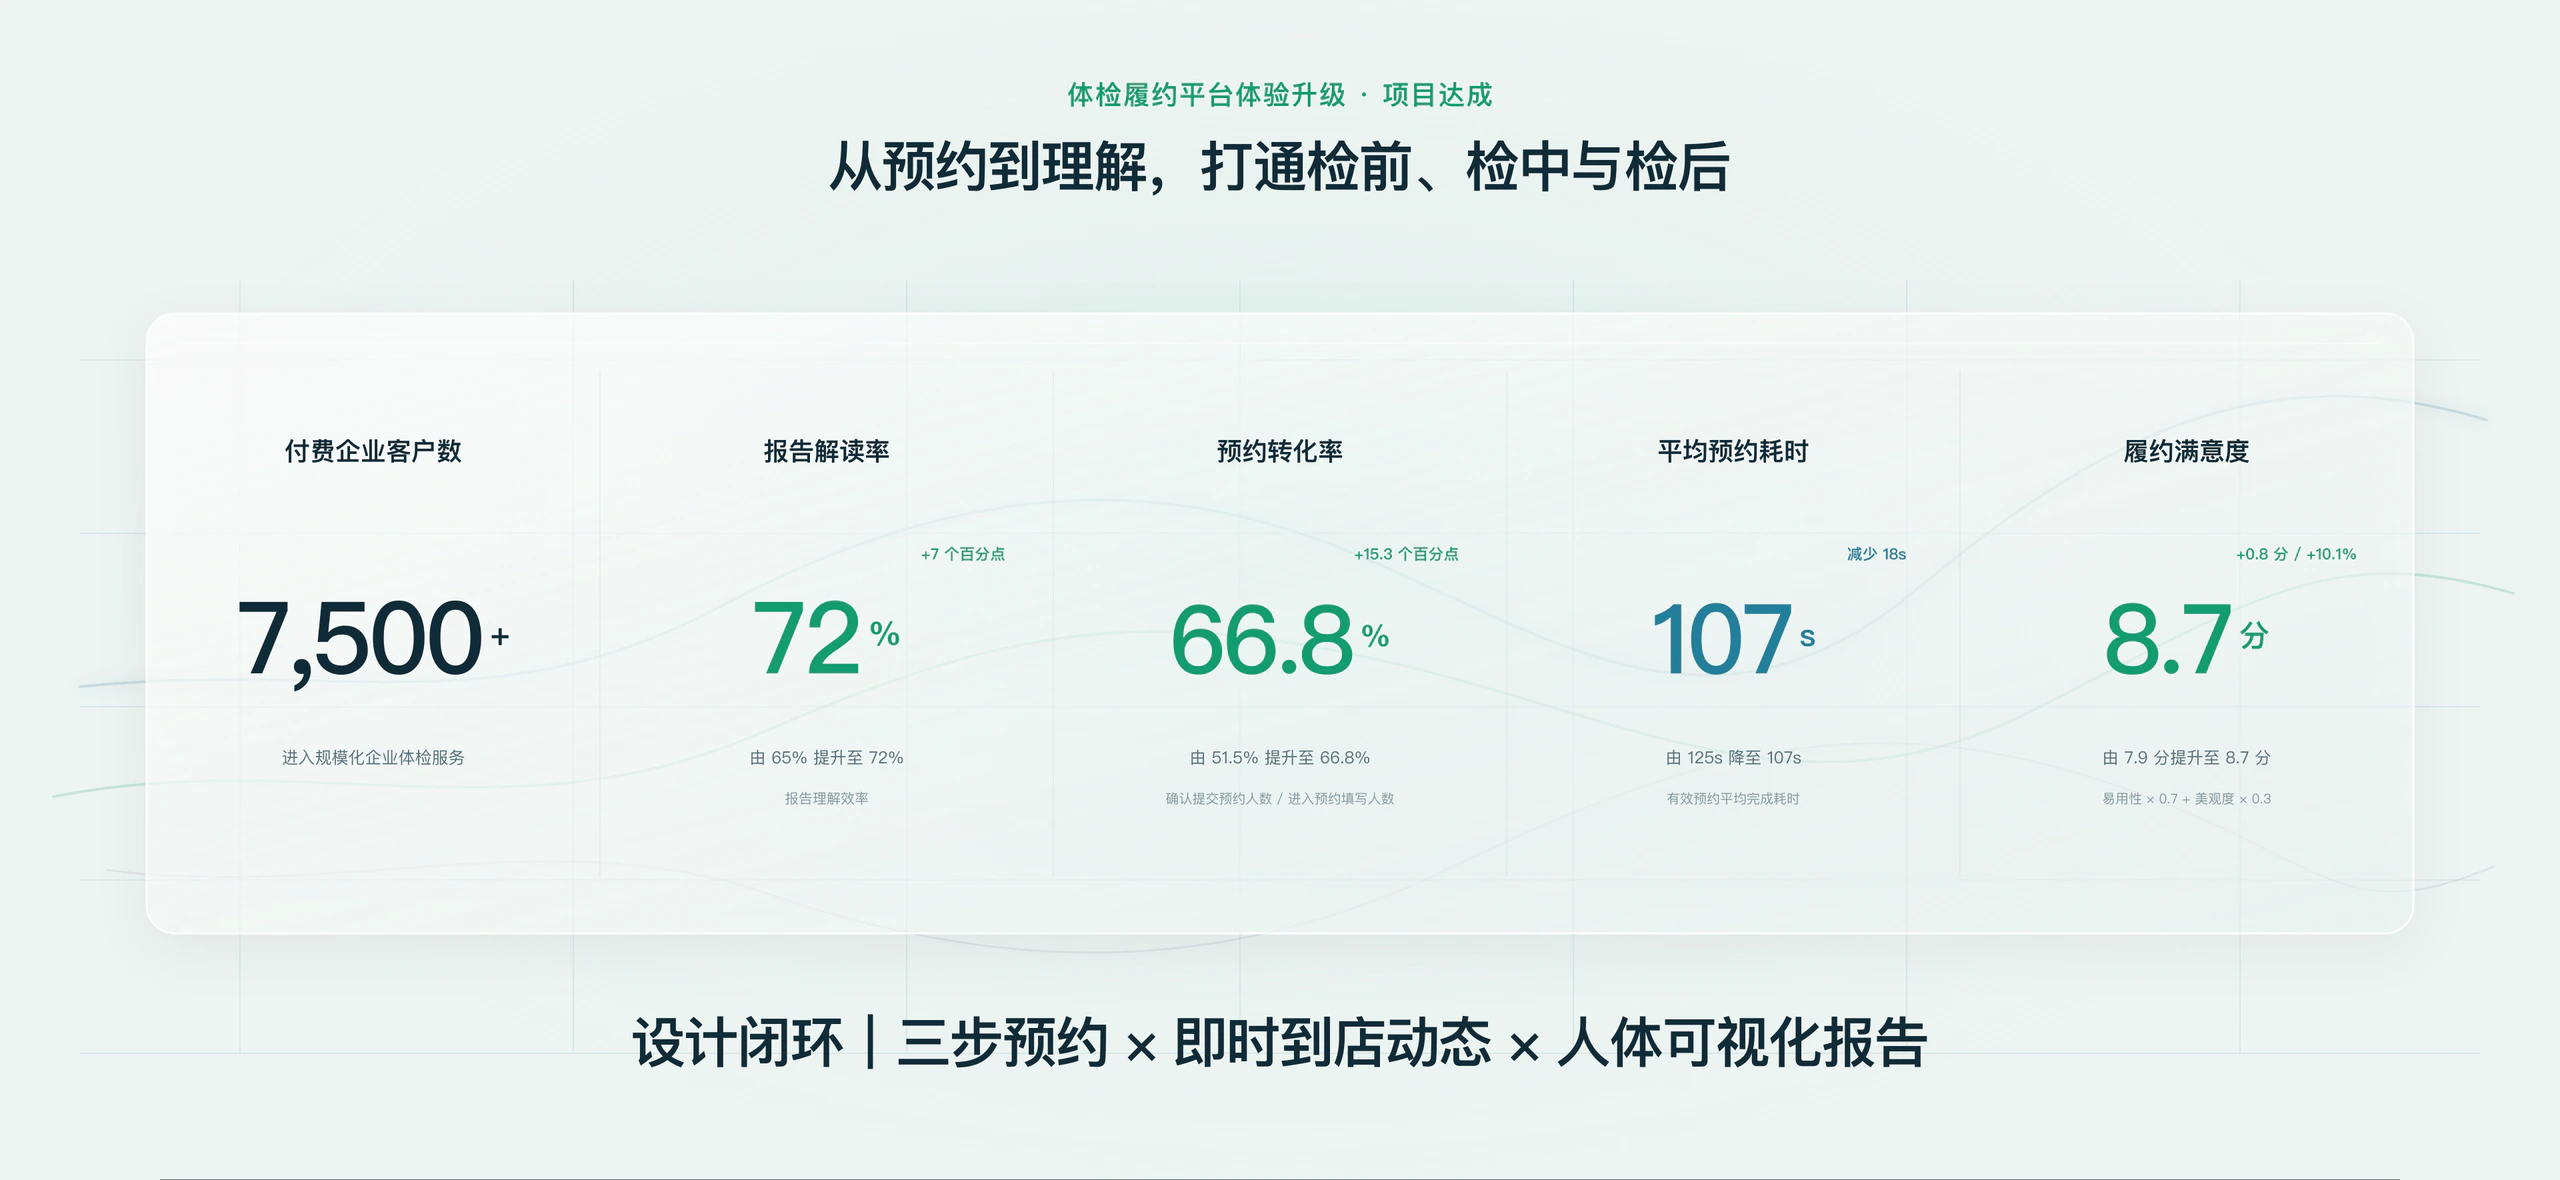
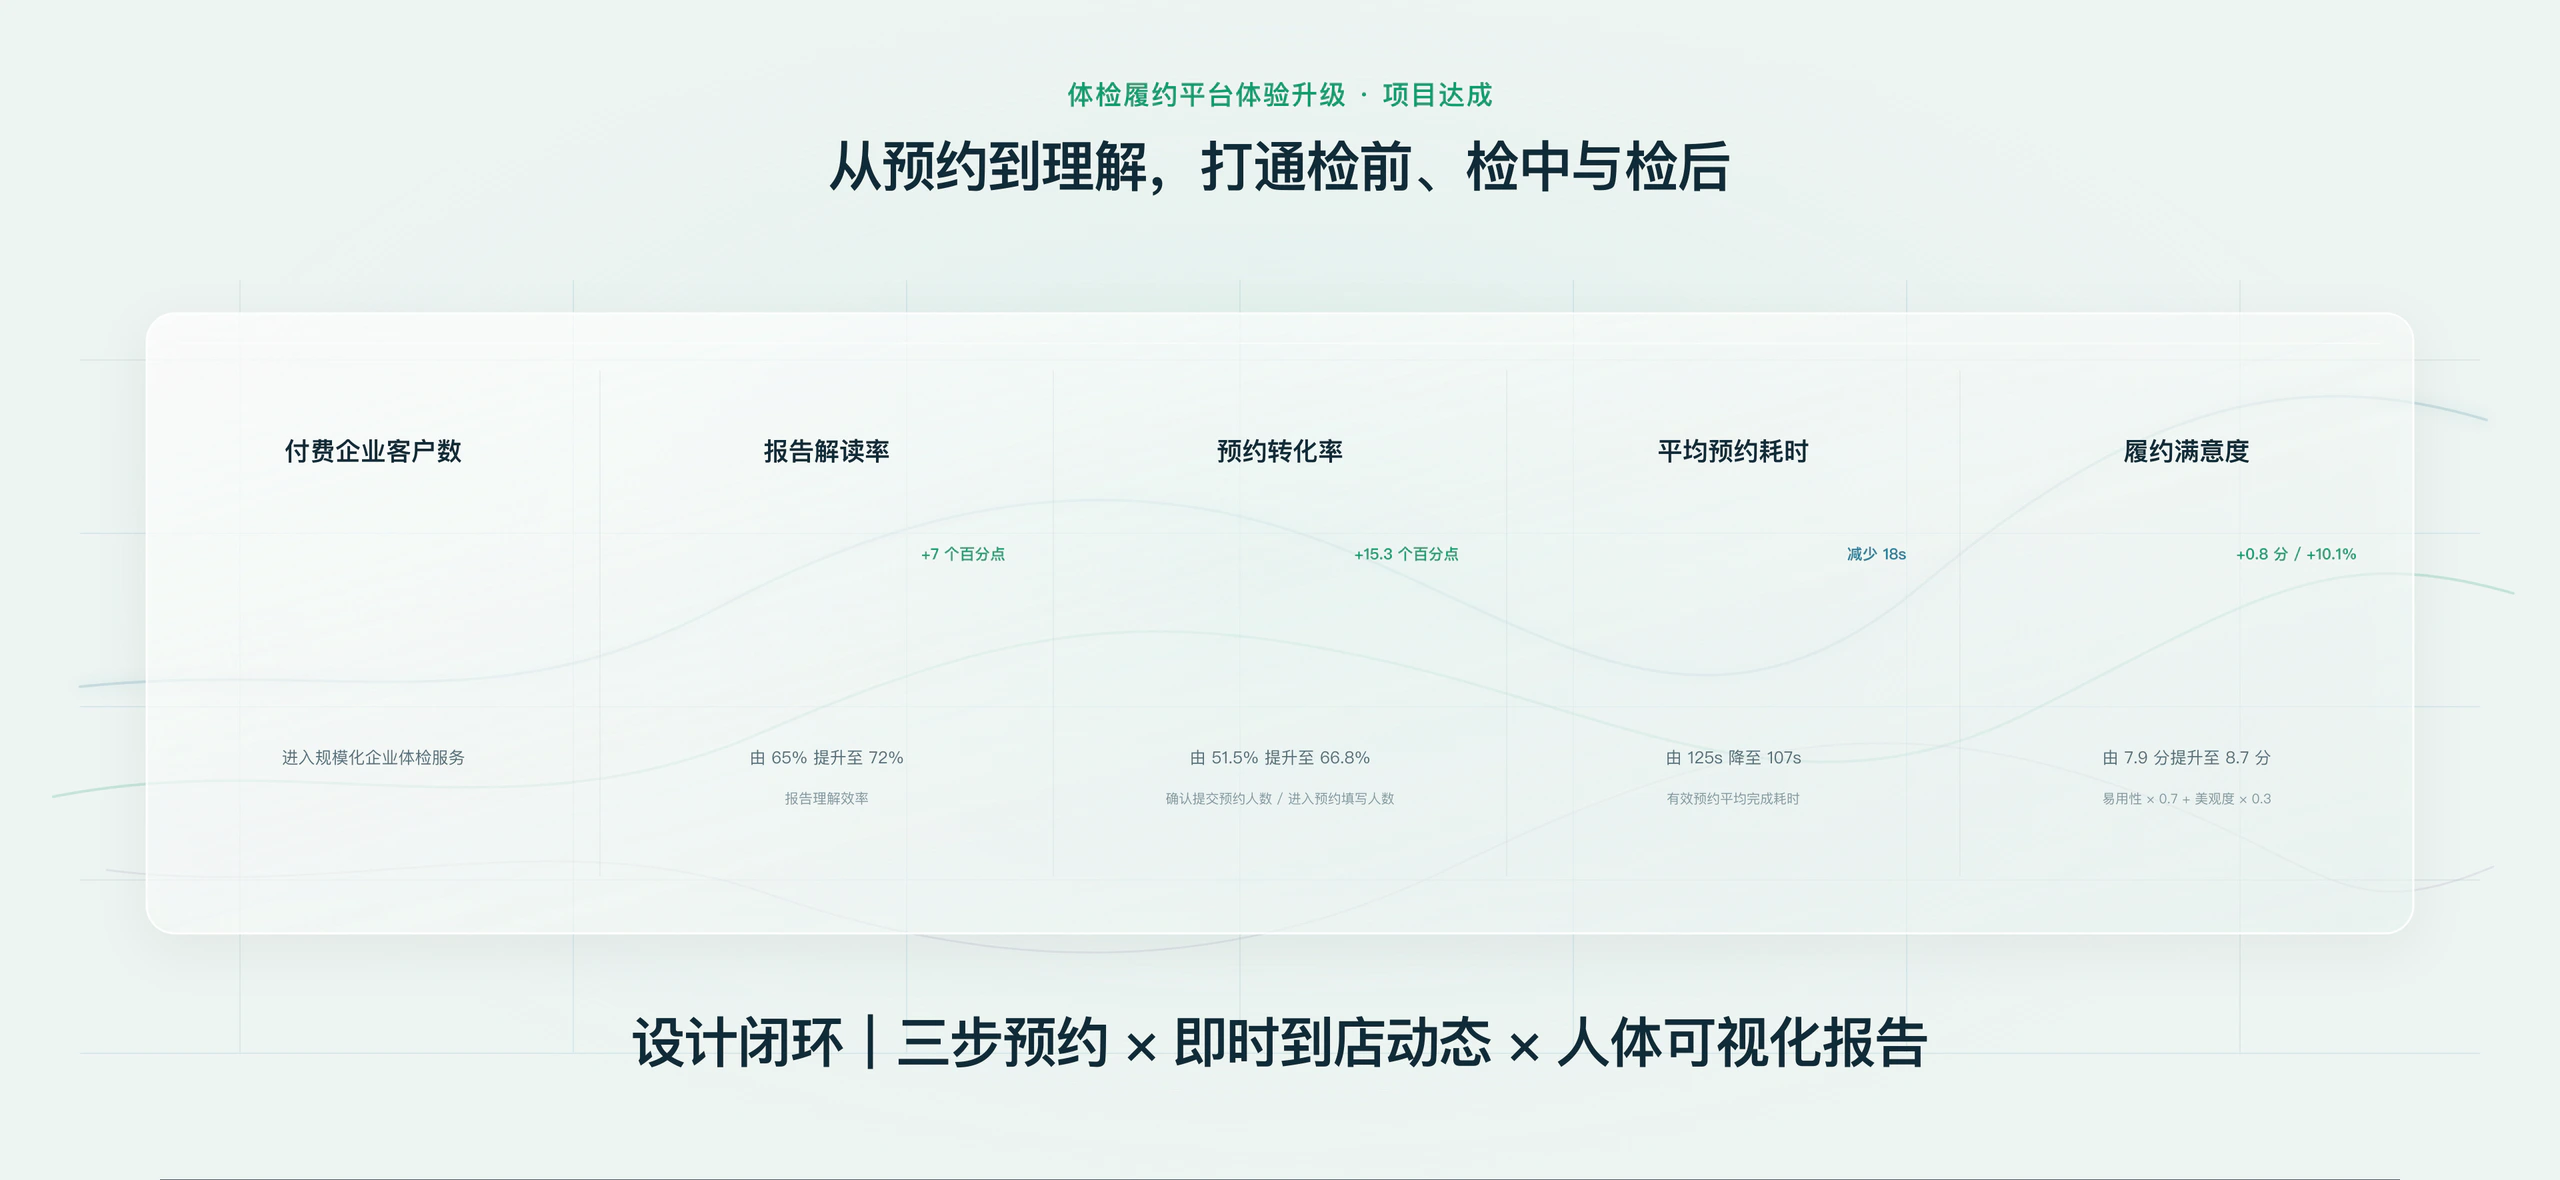
Animate health-check outcome metrics on scroll

diff --git a/work/health-check/index.html b/work/health-check/index.html
@@ -7,9 +7,9 @@
   <title>体检履约平台体验升级 — Wang Zheng</title>
   <link rel="icon" href="../../favicon.svg" type="image/svg+xml">
   <link rel="preload" href="../../assets/images/health-check/fullpage/01-opening.webp" as="image" fetchpriority="high">
-  <link rel="stylesheet" href="../../assets/css/health-check.css?v=20261022-1">
+  <link rel="stylesheet" href="../../assets/css/health-check.css?v=20261022-2">
   <link rel="stylesheet" href="../../assets/css/portfolio-shell.css?v=20261020-1">
-  <script src="../../assets/js/health-check.js?v=20261022-1" defer></script>
+  <script src="../../assets/js/health-check.js?v=20261022-2" defer></script>
   <script src="../../assets/js/portfolio-shell.js?v=20261020-1" defer></script>
 </head>
 <body>
@@ -91,9 +91,16 @@
     <section class="hc-screen" id="report-evolution" aria-label="从电子表单到人体可视化报告">
       <div class="hc-canvas"><img src="../../assets/images/health-check/fullpage/09-report-evolution.webp" alt="体检报告从电子表单到人体可视化的三阶段演变" width="2560" height="1440" loading="lazy"></div>
     </section>
-    <section class="hc-screen hc-outcome" id="outcome" aria-label="项目达成与下一案例" data-theme="dark">
+    <section class="hc-screen hc-outcome" id="outcome" aria-label="项目达成与下一案例" data-metric-reveal data-theme="dark">
       <div class="hc-canvas">
         <img src="../../assets/images/health-check/fullpage/10-outcome-content.webp" alt="体检履约平台五项项目成果：服务规模、报告解读率、预约转化率、预约耗时与履约满意度" width="2560" height="1180" loading="lazy">
+        <div class="outcome-metrics" role="list" aria-label="项目成果数据">
+          <span class="outcome-metric-value ink" role="listitem" style="--metric-x:14.583%;--metric-delay:0ms" aria-label="付费企业客户数 7,500+"><span aria-hidden="true">7,500<small>+</small></span></span>
+          <span class="outcome-metric-value green" role="listitem" style="--metric-x:32.292%;--metric-delay:90ms" aria-label="报告解读率 72%"><span aria-hidden="true">72<small>%</small></span></span>
+          <span class="outcome-metric-value green compact" role="listitem" style="--metric-x:50%;--metric-delay:180ms" aria-label="预约转化率 66.8%"><span aria-hidden="true">66.8<small>%</small></span></span>
+          <span class="outcome-metric-value cyan medium" role="listitem" style="--metric-x:67.708%;--metric-delay:270ms" aria-label="平均预约耗时 107 秒"><span aria-hidden="true">107<small>s</small></span></span>
+          <span class="outcome-metric-value green medium" role="listitem" style="--metric-x:85.417%;--metric-delay:360ms" aria-label="履约满意度 8.7 分"><span aria-hidden="true">8.7<small>分</small></span></span>
+        </div>
       </div>
     </section>
     <nav class="portfolio-footer" aria-label="项目导航">

diff --git a/assets/css/health-check.css b/assets/css/health-check.css
@@ -31,6 +31,20 @@ img { display: block; }
 .hc-state-frame.is-active { z-index: 2; opacity: 1; }
 .hc-diagnosis-flow { aspect-ratio: 3840 / 3760; }
 .hc-outcome { aspect-ratio: 2560 / 1180; }
+.hc-outcome .hc-canvas { container-type: inline-size; }
+.outcome-metrics { position: absolute; z-index: 3; inset: 0; perspective: 900px; pointer-events: none; }
+.outcome-metric-value { position: absolute; left: var(--metric-x); top: 54.82%; color: #149c70; font: 560 3.90625vw/.92 "Helvetica Neue", Arial, sans-serif; font-size: 3.90625cqw; font-variant-numeric: tabular-nums; letter-spacing: -.05em; white-space: nowrap; opacity: 0; transform: translate(-50%,-42%) rotateX(-92deg) scale(.94); transform-origin: 50% 70%; backface-visibility: hidden; }
+.outcome-metric-value.ink { color: #102b38; }
+.outcome-metric-value.cyan { color: #237f9a; }
+.outcome-metric-value.compact { font-size: 3.69792vw; font-size: 3.69792cqw; }
+.outcome-metric-value.medium { font-size: 3.77604vw; font-size: 3.77604cqw; }
+.outcome-metric-value small { display: inline-block; margin-left: .09em; font-size: .32em; font-weight: 650; letter-spacing: 0; transform: translateY(-.92em); }
+.hc-outcome.is-metrics-visible .outcome-metric-value { animation: metric-flip-in 820ms cubic-bezier(.16,.78,.25,1) var(--metric-delay) both; }
+@keyframes metric-flip-in {
+  0% { opacity: 0; transform: translate(-50%,-42%) rotateX(-92deg) scale(.94); filter: blur(5px); }
+  62% { opacity: 1; transform: translate(-50%,-51%) rotateX(9deg) scale(1.015); filter: blur(0); }
+  100% { opacity: 1; transform: translate(-50%,-50%) rotateX(0) scale(1); filter: blur(0); }
+}
 .diagnosis-card-masks { position: absolute; z-index: 3; inset: 0; pointer-events: none; }
 .diagnosis-card-mask { position: absolute; width: 11.98%; height: 6.52%; background: #f3f7fa; opacity: 1; transition: opacity .7s cubic-bezier(.22,.61,.36,1); }
 .diagnosis-card-mask.is-revealed { opacity: 0; }
@@ -89,6 +103,8 @@ img { display: block; }
 @media (prefers-reduced-motion: reduce) {
   html { scroll-behavior: auto; }
   .hc-canvas > img { transition: none; }
+  .outcome-metric-value { opacity: 1; transform: translate(-50%,-50%); }
+  .hc-outcome.is-metrics-visible .outcome-metric-value { animation: none; }
   .hc-explore-cue::before { animation: none; }
   .diagnosis-card-mask { transition: none; }
 }

diff --git a/assets/js/health-check.js b/assets/js/health-check.js
@@ -117,6 +117,20 @@
     }
   });
 
+  const metricReveal = document.querySelector('[data-metric-reveal]');
+  if (metricReveal) {
+    if (reduceMotion || !('IntersectionObserver' in window)) {
+      metricReveal.classList.add('is-metrics-visible');
+    } else {
+      const metricObserver = new IntersectionObserver(([entry], observer) => {
+        if (!entry.isIntersecting) return;
+        metricReveal.classList.add('is-metrics-visible');
+        observer.unobserve(metricReveal);
+      }, { threshold: .32, rootMargin: '0px 0px -6% 0px' });
+      metricObserver.observe(metricReveal);
+    }
+  }
+
   const revealMasks = [...document.querySelectorAll('[data-reveal-mask]')];
   if (reduceMotion || !('IntersectionObserver' in window)) {
     revealMasks.forEach((mask) => mask.classList.add('is-revealed'));
